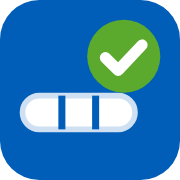
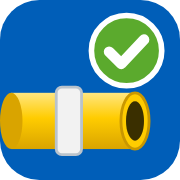
Ver.2.5 : icône en forme de canalisation gaz PE jaune avec manchon
Claude-Session: https://claude.ai/code/session_012HidT8b634HLvBPBYxguH9

diff --git a/index.html b/index.html
@@ -5,12 +5,12 @@
 <meta name="viewport" content="width=device-width, initial-scale=1">
 <title>VERIF-IMMO</title>
 <meta name="description" content="Contrôle des immobilisations à partir des fichiers carto (G Canalisation) et de la liste des EOTP SAP. Traitement 100 % local dans le navigateur.">
-<link rel="icon" href="favicon.svg?v=2.4" type="image/svg+xml">
-<link rel="icon" href="favicon-32.png?v=2.4" type="image/png" sizes="32x32">
-<link rel="apple-touch-icon" href="apple-touch-icon.png?v=2.4">
+<link rel="icon" href="favicon.svg?v=2.5" type="image/svg+xml">
+<link rel="icon" href="favicon-32.png?v=2.5" type="image/png" sizes="32x32">
+<link rel="apple-touch-icon" href="apple-touch-icon.png?v=2.5">
 <link rel="manifest" href="manifest.webmanifest">
 <meta name="theme-color" content="#005eb8">
-<link rel="stylesheet" href="style.css?v=2.4">
+<link rel="stylesheet" href="style.css?v=2.5">
 </head>
 <body>
 <header class="top">
@@ -28,7 +28,7 @@
 <script src="vendor/jspdf.umd.min.js"></script>
 <script src="vendor/jspdf.plugin.autotable.min.js"></script>
 <script src="vendor/tesseract/tesseract.min.js"></script>
-<script src="engine.js?v=2.4"></script>
-<script src="app.js?v=2.4"></script>
+<script src="engine.js?v=2.5"></script>
+<script src="app.js?v=2.5"></script>
 </body>
 </html>

diff --git a/sw.js b/sw.js
@@ -1,5 +1,5 @@
 /* VERIF-IMMO — fonctionnement hors ligne. Changer VERSION à chaque mise à jour de l'appli. */
-const VERSION = '2.4';
+const VERSION = '2.5';
 const CACHE = 'verif-immo-' + VERSION;
 const FILES = [
   './', 'index.html', `style.css?v=${VERSION}`, `engine.js?v=${VERSION}`, `app.js?v=${VERSION}`,

diff --git a/app.js b/app.js
@@ -1,7 +1,7 @@
 /* VERIF-IMMO — interface. Tout est traité localement dans le navigateur. */
 (function () {
   'use strict';
-  const VERSION = '2.4';
+  const VERSION = '2.5';
   const APPNAME = 'VERIF-IMMO';
   const E = window.VIEngine;
   const STORE_KEY = 'verifimmo.v1';
